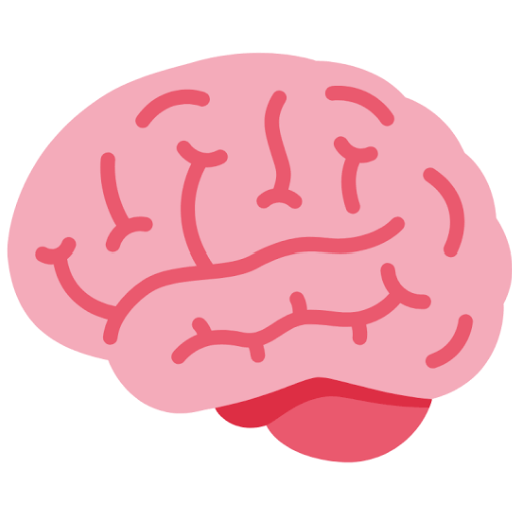
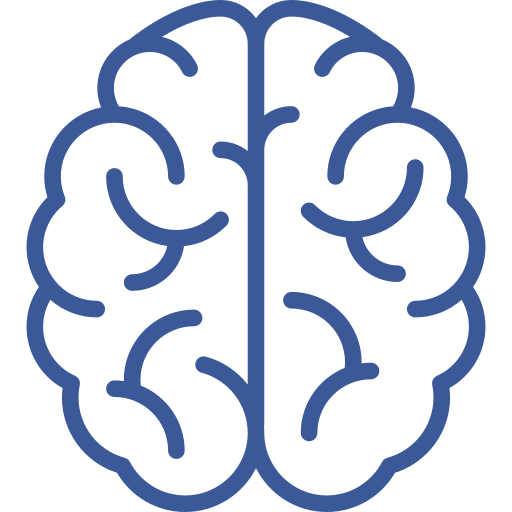
upd

diff --git a/assets/scss/custom.scss b/assets/scss/custom.scss
@@ -1,0 +1,18 @@
+// Custom SCSS. This file shadows the theme's empty `assets/scss/custom.scss`
+// and is imported last by the theme's `main.scss`, so anything here wins.
+
+// The site body font is large (`appearance.font_size: l` => 21px), which suits
+// prose but makes a dated news list look oversized. The `markdown` block emits
+// no class of its own, so scope by the block's `id` instead.
+#news {
+  ul {
+    font-size: 0.78em;
+    line-height: 1.65;
+    margin-bottom: 0;
+    padding-left: 1.15em;
+  }
+
+  li + li {
+    margin-top: 0.45em;
+  }
+}

diff --git a/content/_index.md b/content/_index.md
@@ -24,17 +24,20 @@ sections:
       title: News
       subtitle: ''
       text: |-
-        - **Oct 2026** — *iGENMap* accepted as a **Late-Breaking Abstract** at
+        - **Sep 2026:** *iGENMap* accepted as a **Late-Breaking Abstract** at
           [SfN 2026](#talks).
-        - **Mar 2026** — Started as a Visiting Graduate Student in the
+        - **Aug 2026:** Our fPET-FDG metabolic connectivity paper is out in
+          [*European Journal of Nuclear Medicine and Molecular Imaging*](https://doi.org/10.1007/s00259-026-08109-5).
+        - **Mar 2026:** Presented our metabolic connectivity work at the
+          [Molecular Connectivity Online Symposium](#talks).
+        - **Mar 2026:** Started as a Visiting Graduate Student in the
           [Buckner Lab](https://bucknerlab.fas.harvard.edu) at Harvard, supported by
           the **EPFL/HMS Bertarelli Fellowship**.
-        - **Mar 2026** — Our fPET-FDG metabolic connectivity paper is out in
-          [*European Journal of Nuclear Medicine and Molecular Imaging*](https://doi.org/10.1007/s00259-026-08109-5).
-        - **Mar 2026** — Presented our metabolic connectivity work at the
-          [Molecular Connectivity Online Symposium](#talks).
-        - **Oct 2025** — Conference paper on tri-modal EEG-fPET-fMRI analysis
-          presented at [Asilomar 2025](https://doi.org/10.1109/IEEECONF67917.2025.11443781).
+        - **Dec 2025:** Conference paper on tri-modal EEG-fPET-fMRI analysis
+          accepted at [Asilomar 2025](https://doi.org/10.1109/IEEECONF67917.2025.11443781).
+        - **Aug 2024:** Started the MSc in Neuro-X at EPFL.
+        - **Jul 2024:** Graduated with a BSc in Intelligent Medical Engineering from
+          SUSTech, with the **2024 Distinguished Graduate Award**.
     design:
       columns: '1'
 
@@ -42,8 +45,6 @@ sections:
     id: research
     content:
       title: Research
-      text: |-
-        A few of the questions I have been working on. Each links to a short write-up.
       filters:
         folders:
           - project
@@ -57,8 +58,6 @@ sections:
     id: publications
     content:
       title: Publications
-      text: |-
-        See also my [Google Scholar profile](https://scholar.google.com/citations?hl=en&user=RMFYKDYAAAAJ).
       filters:
         folders:
           - publication
@@ -124,7 +123,7 @@ sections:
         date_end: '2027-02-28'
         description: |2-
             * **GPA:** 5.40 / 6 · **EPFL/HMS Bertarelli Fellowship**
-            * **[Semester project at MIP Lab](#research)** (2025/09 - 2026/01), supervised by Michael Chan and [Prof. Dimitri Van De Ville](https://miplab.epfl.ch): characterized structure-informed functional connectivity using statistical signal analysis on graphs.
+            * **Semester project at MIP Lab** (2025/09 - 2026/01), supervised by Michael Chan and [Prof. Dimitri Van De Ville](https://miplab.epfl.ch): characterized structure-informed functional connectivity using statistical signal analysis on graphs.
 
       - title: Undergraduate Research Assistant
         company: Martinos Center for Biomedical Imaging, Harvard Medical School
@@ -168,7 +167,7 @@ sections:
       title: Contact
       subtitle:
       text: |-
-        The fastest way to reach me is email.
+
       # Contact (add or remove contact options as necessary)
       email: penghui-du@outlook.com
       address:
@@ -186,7 +185,7 @@ sections:
   - block: markdown
     id: gallery
     content:
-      title: Beyond the Lab
+      title: Photos
       subtitle: ''
       text: |-
         {{< gallery album="my_album" >}}

diff --git a/content/authors/admin/_index.md b/content/authors/admin/_index.md
@@ -3,10 +3,10 @@ title: Penghui Du
 role: MSc Neuro-X, EPFL · Visiting Graduate Student, Buckner Lab, Harvard
 avatar_filename: avatar.jpg
 bio: Neuro-X master's student at EPFL and visiting graduate student in the Buckner
-  Lab at Harvard, working on precision functional brain mapping and individualized
-  neuromodulation.
+  Lab at Harvard, working on precision functional mapping and multimodal
+  neuroimaging.
 interests:
-  - Precision Functional Brain Mapping
+  - Precision Functional Mapping
   - Personalized Neuromodulation (TMS)
   - Multimodal Neuroimaging (fMRI / fPET / EEG)
 social:
@@ -59,9 +59,11 @@ Hi! I'm Penghui, a master's student in the Neuro-X program at EPFL, currently a
 visiting graduate student in the [Buckner Lab](https://bucknerlab.fas.harvard.edu)
 at Harvard, supported by the EPFL/HMS Bertarelli Fellowship.
 
-I work on **precision functional brain mapping** — estimating the brain network
-organization of individual people rather than group averages — and on how those
-individualized maps can make neuromodulation such as TMS more precise. My work
-spans fMRI, functional PET, and EEG, and combines signal processing with machine
-learning. I plan to pursue a PhD, and I'm motivated by translating neuroimaging
-methods into something clinically useful.
+My current work is on **precision functional mapping**. I hope that studying how
+functional networks are organized within individual brains can deepen our
+understanding of development, aging, disease, and neuromodulation. I am also
+interested in multimodal integration, and I have worked with fMRI, functional PET,
+and EEG.
+
+I plan to pursue a PhD, and I want to turn neuroimaging methods into something
+clinically useful.

diff --git a/content/event/sfn-2026-igenmap/index.md b/content/event/sfn-2026-igenmap/index.md
@@ -1,21 +1,24 @@
 ---
-# TODO(Penghui): fill in the exact SfN 2026 dates and host city once announced,
-# then update `date` / `date_end` / `location`. `publishDate` is intentionally set
-# to the past so this entry shows on the live site before the meeting — Netlify
-# builds without `--buildFuture`, which would otherwise hide a future-dated page.
+# Note: `publishDate` is intentionally set to the past so this entry shows on the
+# live site before the meeting. Netlify builds without `--buildFuture`, which
+# would otherwise hide a page whose `publishDate` is in the future.
 title: "iGENMap: Individualized Generative Mapping of Cortical Networks Using
   Functional Eigenmodes"
 event: Society for Neuroscience (SfN) Annual Meeting 2026
 event_url: 'https://www.sfn.org/meetings/neuroscience-2026'
-location: To be announced
+location: Washington, DC
+address:
+  city: Washington
+  region: DC
+  country: United States
 summary: Late-Breaking Abstract accepted at SfN 2026.
 abstract: 'Accepted as a **Late-Breaking Abstract** at the Society for Neuroscience
   Annual Meeting 2026. We show that individual functional eigenmodes closely follow
   each subject''s fine-scale cortical network topography, and that this
   correspondence can be learned across subjects to map individual networks from far
   less fMRI data than current state-of-the-art approaches require. More details,
-  slides, and the poster will be added closer to the meeting.'
-date: 2026-11-07T09:00:00.000Z
+  slides, and the poster will be shared closer to the meeting.'
+date: 2026-11-18T09:00:00.000Z
 all_day: true
 publishDate: 2026-10-02T00:00:00.000Z
 draft: false

diff --git a/content/project/precision-tms-targeting/index.md b/content/project/precision-tms-targeting/index.md
@@ -19,15 +19,14 @@ links: []
 ---
 
 Transcranial magnetic stimulation (TMS) is used clinically to treat depression, but
-the choice of stimulation target varies widely in practice — from scalp-based
-heuristics, to group-average functional maps, to targets derived from an
-individual's own functional connectivity.
+the choice of stimulation target varies widely in practice. Targets may come from
+scalp-based heuristics, from group-average functional maps, or from an individual's
+own functional connectivity.
 
 This project investigates precision brain mapping for personalized TMS by directly
-comparing **empirical, group-level, and individualized targeting strategies**, and
-assessing what each actually buys you: how much targeting precision improves, how
-much data each approach requires, and where the practical trade-offs lie for
-clinical deployment.
+comparing **empirical, group-level, and individualized targeting strategies**. I am
+assessing how much each approach actually improves targeting precision, how much
+data it requires, and where the practical trade-offs lie for clinical use.
 
 Work carried out in the [Buckner Lab](https://bucknerlab.fas.harvard.edu) at
 Harvard, supported by the EPFL/HMS Bertarelli Fellowship.

diff --git a/content/project/metabolic-connectivity-fpet/index.md b/content/project/metabolic-connectivity-fpet/index.md
@@ -19,9 +19,9 @@ links: []
 ---
 
 Functional PET-FDG (fPET-FDG) makes it possible to track glucose metabolism
-dynamically, raising the question of whether metabolism shows a connectivity
-structure analogous to the functional connectivity measured with fMRI — and what
-that structure would mean.
+dynamically. This raises the question of whether metabolism shows a connectivity
+structure analogous to the functional connectivity measured with fMRI, and what
+such a structure would mean.
 
 Using resting-state fPET-FDG data from 24 individuals, I characterized **local**
 metabolic organization with connectivity-based boundary mapping (adapted for the

diff --git a/content/project/igenmap/index.md b/content/project/igenmap/index.md
@@ -19,9 +19,9 @@ links: []
 ---
 
 Precision functional mapping has revealed that human brain network topography is
-highly individual-specific — but reliable individual estimates typically demand
-extensive fMRI data from every subject, which is impractical at scale and in the
-clinic.
+highly individual-specific. However, reliable individual estimates typically
+demand extensive fMRI data from every subject, which is impractical at scale and
+in the clinic.
 
 We observed that **functional eigenmodes closely follow each subject's fine-scale
 network topography**, and that the correspondence between eigenmodes and networks

diff --git a/content/publication/human-cerebral-cortex-organization-characterized-by-functional-pet-fdg-metabolic-connectivity/index.md b/content/publication/human-cerebral-cortex-organization-characterized-by-functional-pet-fdg-metabolic-connectivity/index.md
@@ -40,5 +40,6 @@ image:
   filename: featured.png
   focal_point: Smart
   preview_only: false
-date: 2026-03-07T12:36:00.773Z
+# TODO(Penghui): exact publication day guessed as the 1st; correct if needed.
+date: 2026-08-01T00:00:00.000Z
 ---
